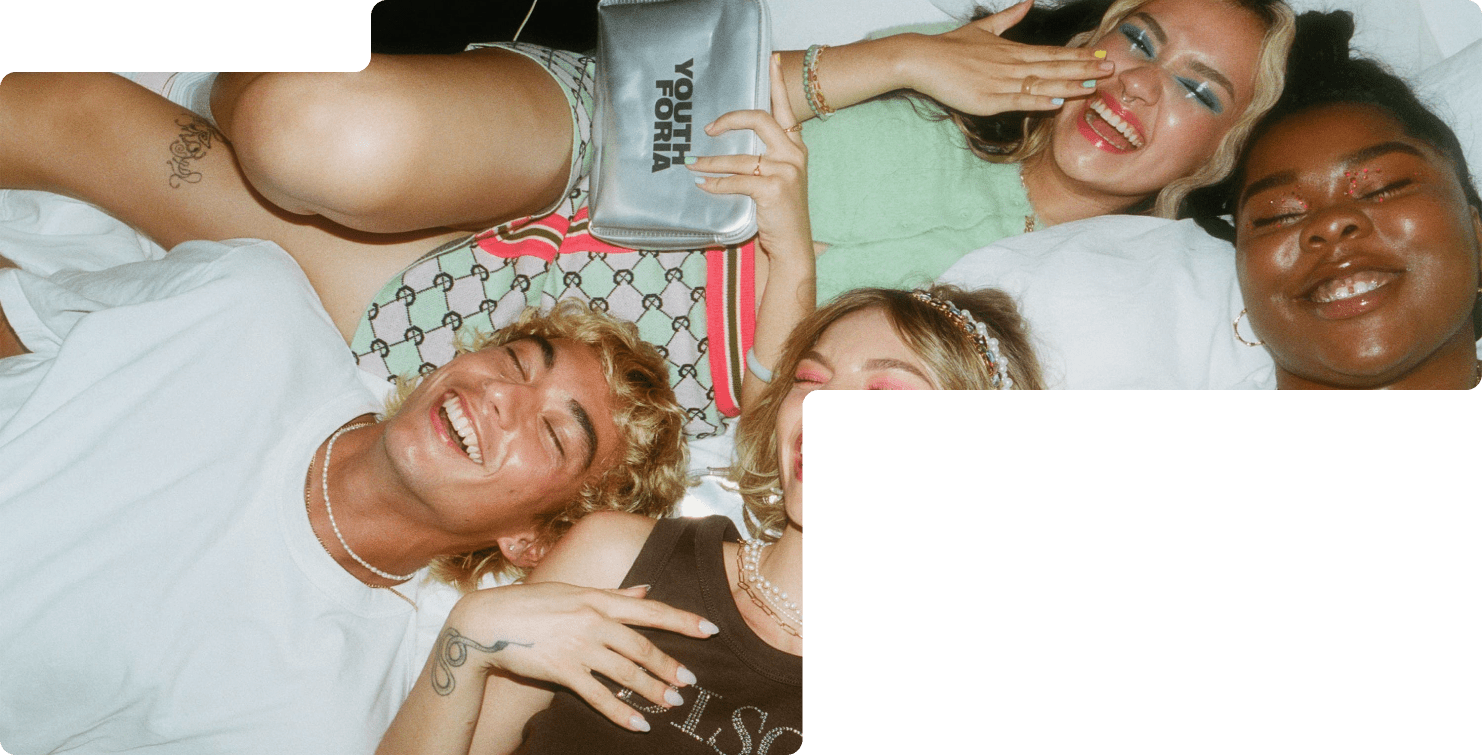
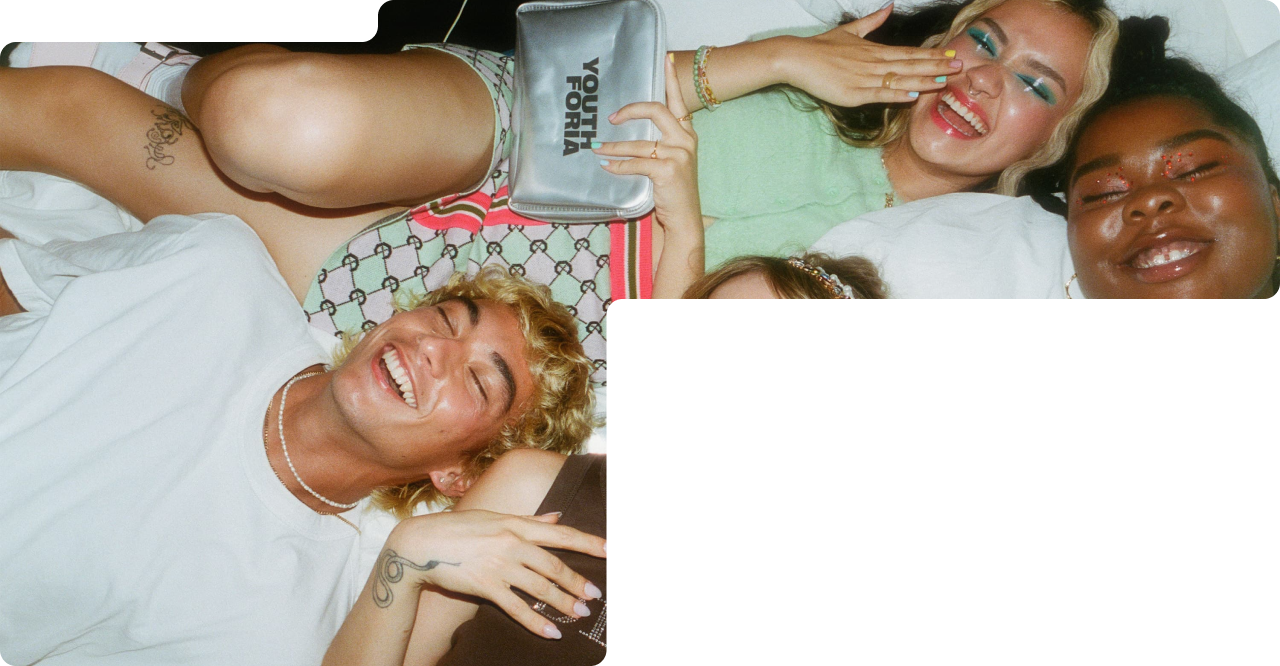
home page fonts

diff --git a/StoreComponents/landingpage/marqueegrid/Gridbox.tsx b/StoreComponents/landingpage/marqueegrid/Gridbox.tsx
@@ -2,10 +2,16 @@ import { Typography, Grid } from "@mui/material";
 import { Box } from "@mui/system";
 import React from "react";
 import Marquee from "react-fast-marquee";
-import { CustomContainer } from "../../landinglayout";
-import { styles } from "./Style";
 import { useTheme } from "@mui/material";
 import useMediaQuery from "@mui/material/useMediaQuery";
+import Image from 'next/image';
+import firstGrid from '../../../public/home-sec2-img1.png';
+import secondGrid from '../../../public/home-sec2-img2.png';
+import thirdGrid from '../../../public/home-sec2-img3.png';
+import glow from '../../../public/glow.svg';
+import { CustomContainer } from "../../landinglayout";
+import { styles } from "./Style";
+
 
 const Gridbox = () => {
   const theme = useTheme();
@@ -37,7 +43,7 @@ const Gridbox = () => {
           <Grid
             container
             item
-            gap={16}
+            gap={10}
             sm={12}
             md={12}
             lg={12}
@@ -46,22 +52,34 @@ const Gridbox = () => {
             paddingY={{ xs: theme.spacing(15), md: theme.spacing(20), lg: theme.spacing(30) }}
           >
             <Grid item xs={12} sm={7} md={7} lg={4.95}>
-              <img src="/home-sec2-img1.png" alt="Picture of the author" style={{ width: "100%", height: "100%" }} />
+              <Image
+                src={firstGrid}
+                alt="Picture of the author"
+              />
             </Grid>
             <Grid item xs={12} sm={3} md={2.5} lg={2.4}>
               <Grid sx={styles.gridimgBox}>
                 <Grid>
-                  <img src="/home-sec2-img2.png" alt="Picture of the author" style={{ width: "100%" }} />
+                  <Image
+                    src={secondGrid}
+                    alt="Picture of the author"
+                  />
                 </Grid>
                 <Grid sx={styles.gridimgBoxInner}>
-                  <img src="/home-sec2-img3.png" alt="Picture of the author" style={{ width: "100%" }} />
+                  <Image
+                    src={thirdGrid}
+                    alt="Picture of the author"
+                  />
                 </Grid>
               </Grid>
             </Grid>
             <Grid item xs={12} sm={12} md={12} lg={4}>
               <Grid style={{ display: "flex", alignItems: "flex-start", marginBottom: "13px" }}>
                 <Box style={{ marginTop: "7px" }}>
-                  <img src="/glow.svg" alt="Picture of the author" />
+                  <Image
+                    src={glow}
+                    alt="Picture of the author"
+                  />
                 </Box>
                 <Box style={{ marginLeft: "10px" }}>
                   <Typography sx={styles.gridinnereText}>More money. Less problems</Typography>
@@ -72,7 +90,10 @@ const Gridbox = () => {
               </Grid>
               <Grid style={{ display: "flex", alignItems: "flex-start", marginBottom: "13px" }}>
                 <Box style={{ marginTop: "7px" }}>
-                  <img src="/glow.svg" alt="Picture of the author" />
+                  <Image
+                    src={glow}
+                    alt="Picture of the author"
+                  />
                 </Box>
                 <Box style={{ marginLeft: "10px" }}>
                   <Typography sx={styles.gridinnereText}>Simple and free</Typography>
@@ -83,7 +104,10 @@ const Gridbox = () => {
               </Grid>
               <Grid style={{ display: "flex", alignItems: "flex-start", marginBottom: "13px" }}>
                 <Box style={{ marginTop: "7px" }}>
-                  <img src="/glow.svg" alt="Picture of the author" />
+                  <Image
+                    src={glow}
+                    alt="Picture of the author"
+                  />
                 </Box>
                 <Box style={{ marginLeft: "10px" }}>
                   <Typography sx={styles.gridinnereText}>Business as usual</Typography>

diff --git a/StoreComponents/landingpage/homebanner/Banner.tsx b/StoreComponents/landingpage/homebanner/Banner.tsx
@@ -1,16 +1,20 @@
-import { Box, Grid, Typography, Dialog, Tabs, Tab, IconButton } from "@mui/material";
+import { Box, Grid, Typography, Dialog, Tabs, Tab, IconButton, responsiveFontSizes } from "@mui/material";
 import Button from "@mui/material/Button";
 import React, { useState } from "react";
-import { styles } from "./style";
-// import Typed from "react-typed";
 import Typewriter from "typewriter-effect";
-
 import CloseIcon from "@mui/icons-material/Close";
 import useMediaQuery from "@mui/material/useMediaQuery";
 import { useTheme } from "@mui/material";
+import Image from 'next/image'
+import desktopBanner from '../../../public/home-banner1.png';
+import tabBanner from '../../../public/bannerMd.png';
+import mobileBanner from '../../../public/bannerMob.png';
+// import Typed from "react-typed";
+import { styles } from "./style";
 import Creatorpopup from "../../popupdialog/creatorpopup";
 import Brandspopup from "../../popupdialog/brandspopup";
 import { CustomContainer } from "../../landinglayout";
+
 const Banner = () => {
   const isMatch = useMediaQuery("(max-width:1145px)");
   const isMedium = useMediaQuery("(max-width:850px)");
@@ -29,14 +33,31 @@ const Banner = () => {
         paddingX={{ xs: theme.spacing(15), md: theme.spacing(20), lg: theme.spacing(30) }}
         paddingY={{ xs: theme.spacing(15), md: theme.spacing(20), lg: theme.spacing(30) }}
       >
-        <Grid item xs={12} sm={12} md={12} lg={12} style={{ position: "relative" }}>
+        <Grid item xs={12} sm={12} md={12} lg={12} style={{ position: "relative" }}
+        
+          marginY={{ xs: theme.spacing(96), sm: theme.spacing(96), md: theme.spacing(95), lg: theme.spacing(75) }}
+        >
           {isSmall ? (
-            <img src="/bannerMob.png" alt="home banner" style={{ width: "100%", paddingTop: "90px" }} />
-          ) : (
-            <img src="/home-banner1.png" alt="home banner" style={{ width: "100%", paddingTop: "90px" }} />
+            <Image
+              src={mobileBanner}
+              alt="Picture of the author"
+            />
+          ) : 
+          isMedium ? (
+            <Image
+              src={tabBanner}
+              alt="Picture of the author"
+            />
+          )
+          :
+          (
+            <Image
+              src={desktopBanner}
+              alt="Picture of the author"
+            />
           )}
           <Grid sx={styles.bannerText}>
-            <Typography sx={styles.FirstList}>We put fashion</Typography>
+            <Typography fontSize={{xs:'34px',md:'40px',lg:'48px'}}>We put fashion</Typography>
             <Box style={{ display: "flex" }} sx={styles.animateRow}>
               {/* <Typed
                 strings={["Creatore", "Influencers", "Curators"]}
@@ -64,7 +85,7 @@ const Banner = () => {
                   color: "#1C1B1F",
                   fontFamily: "Inter",
                   fontWeight: "900",
-                  fontSize: isSmall ? "42px" : isMedium ? "28px" : isMatch ? "39px" : "48px",
+                  fontSize: isSmall ? "34px" : isMedium ? "34px" : isMatch ? "39px" : "48px",
                 }}
               >
                 in business

diff --git a/StoreComponents/landingpage/homebanner/style.ts b/StoreComponents/landingpage/homebanner/style.ts
@@ -1,23 +1,20 @@
 export const styles = {
   bannerText: {
     position: "absolute",
-    right: "-20px",
-    bottom: "2px",
+    right: "0px",
+    bottom: "36px",
     margin: " 0 auto",
-    width: "45%",
+    width: "50%",
     paddingRight: "10px",
-    ["@media (max-width:1400px)"]: {
-      bottom: "-16px",
-    },
     ["@media (max-width:1145px)"]: {
-      bottom: "-16px",
-      right: "-8px",
+      bottom: "2px"
     },
     ["@media (max-width:960px)"]: {
       bottom: " -48px",
     },
     ["@media (max-width:800px)"]: {
-      bottom: "-93px",
+      bottom: "6px",
+      width: "69%",
     },
     ["@media (max-width:767px)"]: {
       position: "unset",
@@ -30,9 +27,6 @@ export const styles = {
     fontSize: "48px",
     ["@media (max-width:1145px)"]: {
       fontSize: "42px",
-    },
-    ["@media (max-width:800px)"]: {
-      fontSize: "28px",
     },
     ["@media (max-width:767px)"]: {
       fontSize: "42px",

diff --git a/styles/globals.css b/styles/globals.css
@@ -8,8 +8,20 @@
   color: "#1C1B1F";
   font-family: "Inter";
   font-weight: 700;
-  font-size: 42px;
+  font-size: 48px;
   font-weight: 900;
+}
+@media screen and (max-width:1145px){
+  .Typewriter {
+    font-size:42px;
+  }
+
+}
+
+@media screen and (max-width:767px){
+  .Typewriter {
+    font-size:34px;
+  }
 }
 .swiper {
   width: 100%;
